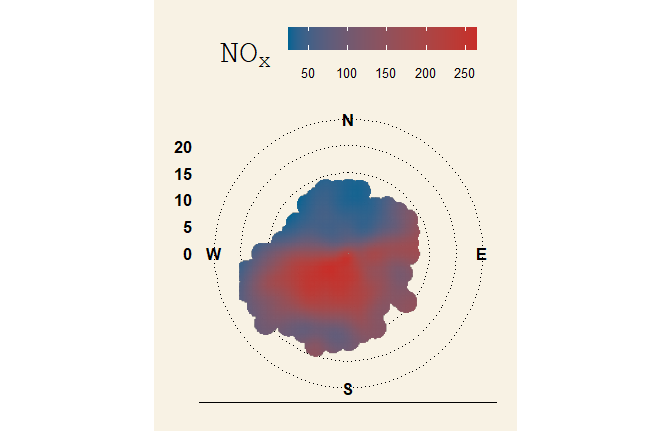
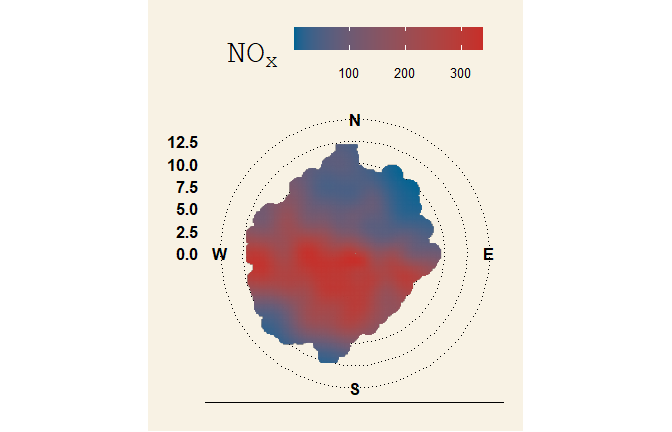
docs (readme): update readme

diff --git a/README.md b/README.md
@@ -58,7 +58,7 @@ Use `ggplot2::theme()` or any theme package. For example, we can use the
 style from the Wall Street Journal:
 
 ``` r
-gg_polar_plot(openair::mydata, "nox") +
+gg_polar_plot(marylebone, "nox") +
   ggthemes::theme_wsj() +
   scale_color_gradientn(colours = rev(ggthemes::wsj_pal()(2))) +
   guides(color = guide_colorbar(barwidth = grid::unit(5, "cm")))
@@ -70,7 +70,7 @@ Or we could make our polar plot blend in with some other plots produced
 in Google Sheets:
 
 ``` r
-gg_polar_plot(openair::mydata, "nox") +
+gg_polar_plot(marylebone, "nox") +
   ggthemes::theme_gdocs() +
   scale_color_gradientn(colours = ggthemes::gdocs_pal()(3))
 ```
@@ -83,7 +83,7 @@ Use any `ggplot2` scale function to change how the plot behaves. For
 example, use `scale_color_binned()` to bin the colour bar.
 
 ``` r
-gg_polar_plot(openair::mydata, "nox") +
+gg_polar_plot(marylebone, "nox") +
   theme_polar() +
   scale_color_steps(low = "black",
                              high = "goldenrod",
@@ -119,7 +119,7 @@ attention to certain aspects. In-built annotation functions make it easy
 to, for example, draw a highlighting wedge or direct axis labels.
 
 ``` r
-gg_polar_plot(openair::mydata, "nox") +
+gg_polar_plot(marylebone, "nox") +
   theme_polar() +
   scale_opencolours("inferno") +
   annotate_polar_wedge("S", "W") +
@@ -151,12 +151,12 @@ variation plot.
 library(patchwork)
 
 polar <-
-  gg_polar_plot(openair::mydata, "nox") + 
+  gg_polar_plot(marylebone, "nox") + 
   theme_polar() + 
   theme(panel.border = element_rect(fill = NA, color = "black")) +
   scale_opencolours()
 
-tv <- gg_timevariation(openair::mydata, "nox", return = "list")
+tv <- gg_timevariation(marylebone, "nox", return = "list")
 tv <- purrr::map(tv, ~.x + theme_classic() + theme(legend.position = "none", panel.border = element_rect(fill = NA)))
 
 tv$day_hour / (tv$month | tv$day | polar) +
